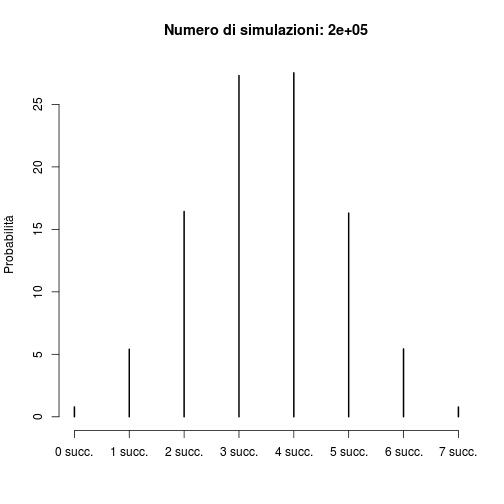
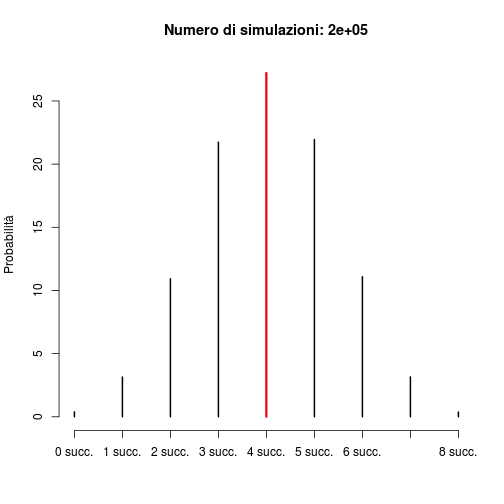
migliorato plot sim1

diff --git a/distribuzioniRPG.html b/distribuzioniRPG.html
@@ -474,32 +474,31 @@ cat(hwrite(tab3, table.border = &quot;1&quot;, table.class = &quot;tab1&quot;, w
 
 <p>E&#39; possibile estrarre dei campioni casuali che rispondono ad una distribuzione binomiale con la funzione <em>rbinom</em>.</p>
 
-<h4>Simulazione 1: distribuzione del numero di successi su un numero ripetuto di lanci di un pool di dadi di dimensione <em>n</em> con successo a 6+</h4>
+<h4>Simulazione 1: distribuzione del numero di successi su un numero ripetuto di lanci di un pool di dadi di dimensione <em>nsim1</em> con successo a 6+</h4>
 
-<pre><code class="r">rip1 &lt;- 2e+05
-psim1 &lt;- (sides - 6 + 1)/sides
-sim1 &lt;- (table(rbinom(rip1, n, psim1))/rip1) * 100
+<pre><code class="r">soglia &lt;- 6
+rip1 &lt;- 2e+05
+psim1 &lt;- (sides - soglia + 1)/sides
+nsim1 &lt;- 8
+sim1 &lt;- (table(rbinom(rip1, nsim1, psim1))/rip1) * 100
 names(sim1) &lt;- paste(names(sim1), &quot;succ.&quot;)
 sim1
 </code></pre>
 
-<pre><code>## 0 succ. 1 succ. 2 succ. 3 succ. 4 succ. 5 succ. 6 succ. 7 succ. 
-##  0.7935  5.4095 16.4325 27.3120 27.5310 16.3045  5.4315  0.7855
+<pre><code>## 0 succ. 1 succ. 2 succ. 3 succ. 4 succ. 5 succ. 6 succ. 7 succ. 8 succ. 
+##  0.3905  3.1465 10.9280 21.7360 27.2285 21.9475 11.0845  3.1600  0.3785
 </code></pre>
 
 <pre><code class="r">plot(sim1, ylab = &quot;Probabilità&quot;, main = paste(&quot;Numero di simulazioni:&quot;, rip1))
+lines(c(floor(nsim1 * psim1) + 1, floor(nsim1 * psim1) + 1), c(0, sim1[floor(nsim1 * 
+    psim1) + 1]), lwd = 2, col = &quot;red&quot;)
+lines(c(ceiling(nsim1 * psim1) + 1, ceiling(nsim1 * psim1) + 1), c(0, sim1[ceiling(nsim1 * 
+    psim1) + 1]), lwd = 2, col = &quot;red&quot;)
 </code></pre>
 
[2 lines of base64/hex data omitted]
 
-<pre><code class="r">atteso &lt;- n * psim1
-atteso
-</code></pre>
-
-<pre><code>## [1] 3.5
-</code></pre>
-
-<p>in cui è possibile notare come al crescere del numero di esperimenti, per il teorema del limite centrale, la probabilità di ottenere un certo numero di successi si accentra attorno al valore atteso n*psim</p>
+<p>in cui è possibile notare come al crescere del numero di esperimenti, per il teorema del limite centrale, la probabilità di ottenere un certo numero di successi si accentra attorno al valore atteso evidenziato.</p>
 
 </body>
 

diff --git a/distribuzioniRPG.md b/distribuzioniRPG.md
@@ -274,35 +274,32 @@ cat(hwrite(tab3, table.border = "1", table.class = "tab1", width = "100%"))
 
 ### Simulazioni
 E' possibile estrarre dei campioni casuali che rispondono ad una distribuzione binomiale con la funzione _rbinom_.
-#### Simulazione 1: distribuzione del numero di successi su un numero ripetuto di lanci di un pool di dadi di dimensione _n_ con successo a 6+
+#### Simulazione 1: distribuzione del numero di successi su un numero ripetuto di lanci di un pool di dadi di dimensione _nsim1_ con successo a 6+
 
 ```r
+soglia <- 6
 rip1 <- 2e+05
-psim1 <- (sides - 6 + 1)/sides
-sim1 <- (table(rbinom(rip1, n, psim1))/rip1) * 100
+psim1 <- (sides - soglia + 1)/sides
+nsim1 <- 8
+sim1 <- (table(rbinom(rip1, nsim1, psim1))/rip1) * 100
 names(sim1) <- paste(names(sim1), "succ.")
 sim1
 ```
 
 ```
-## 0 succ. 1 succ. 2 succ. 3 succ. 4 succ. 5 succ. 6 succ. 7 succ. 
-##  0.7935  5.4095 16.4325 27.3120 27.5310 16.3045  5.4315  0.7855
+## 0 succ. 1 succ. 2 succ. 3 succ. 4 succ. 5 succ. 6 succ. 7 succ. 8 succ. 
+##  0.3905  3.1465 10.9280 21.7360 27.2285 21.9475 11.0845  3.1600  0.3785
 ```
 
 ```r
 plot(sim1, ylab = "Probabilità", main = paste("Numero di simulazioni:", rip1))
+lines(c(floor(nsim1 * psim1) + 1, floor(nsim1 * psim1) + 1), c(0, sim1[floor(nsim1 * 
+    psim1) + 1]), lwd = 2, col = "red")
+lines(c(ceiling(nsim1 * psim1) + 1, ceiling(nsim1 * psim1) + 1), c(0, sim1[ceiling(nsim1 * 
+    psim1) + 1]), lwd = 2, col = "red")
 ```
 
 ![plot of chunk sim1](figure/sim1.png) 
 
-```r
-atteso <- n * psim1
-atteso
-```
 
-```
-## [1] 3.5
-```
-
-
-in cui è possibile notare come al crescere del numero di esperimenti, per il teorema del limite centrale, la probabilità di ottenere un certo numero di successi si accentra attorno al valore atteso n*psim
+in cui è possibile notare come al crescere del numero di esperimenti, per il teorema del limite centrale, la probabilità di ottenere un certo numero di successi si accentra attorno al valore atteso evidenziato.
